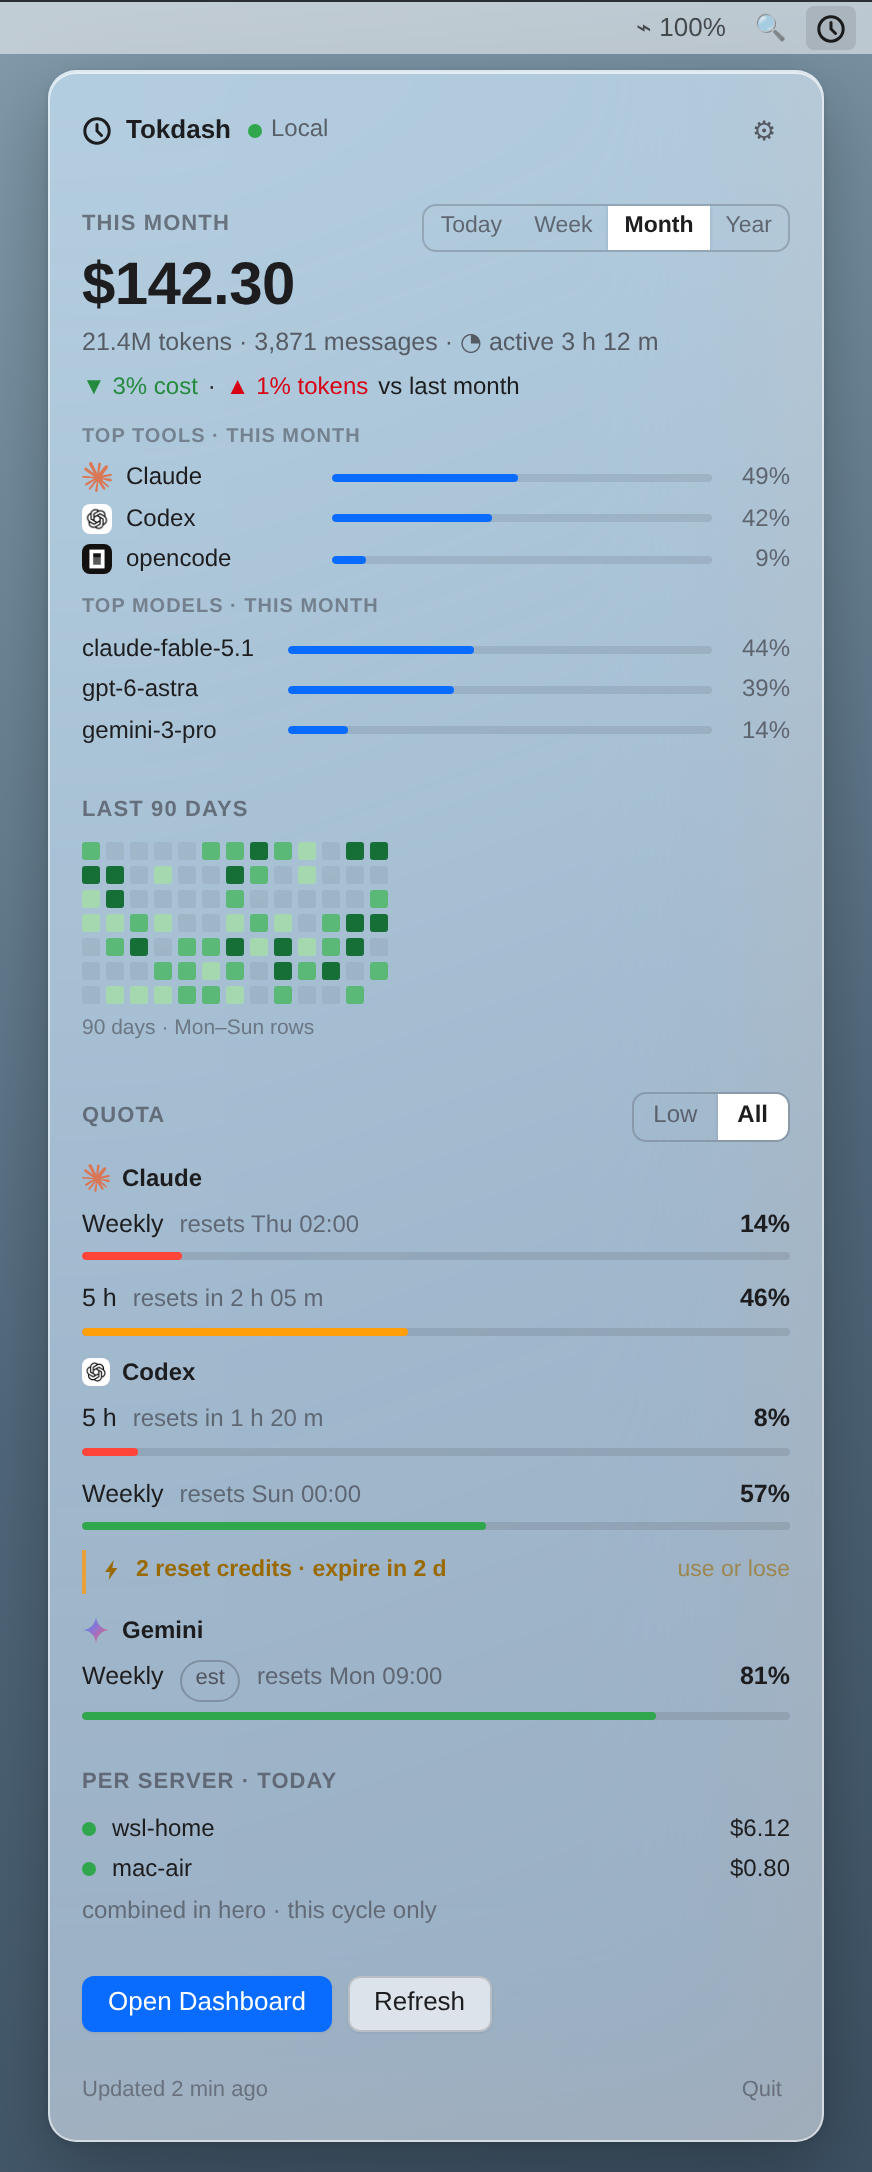
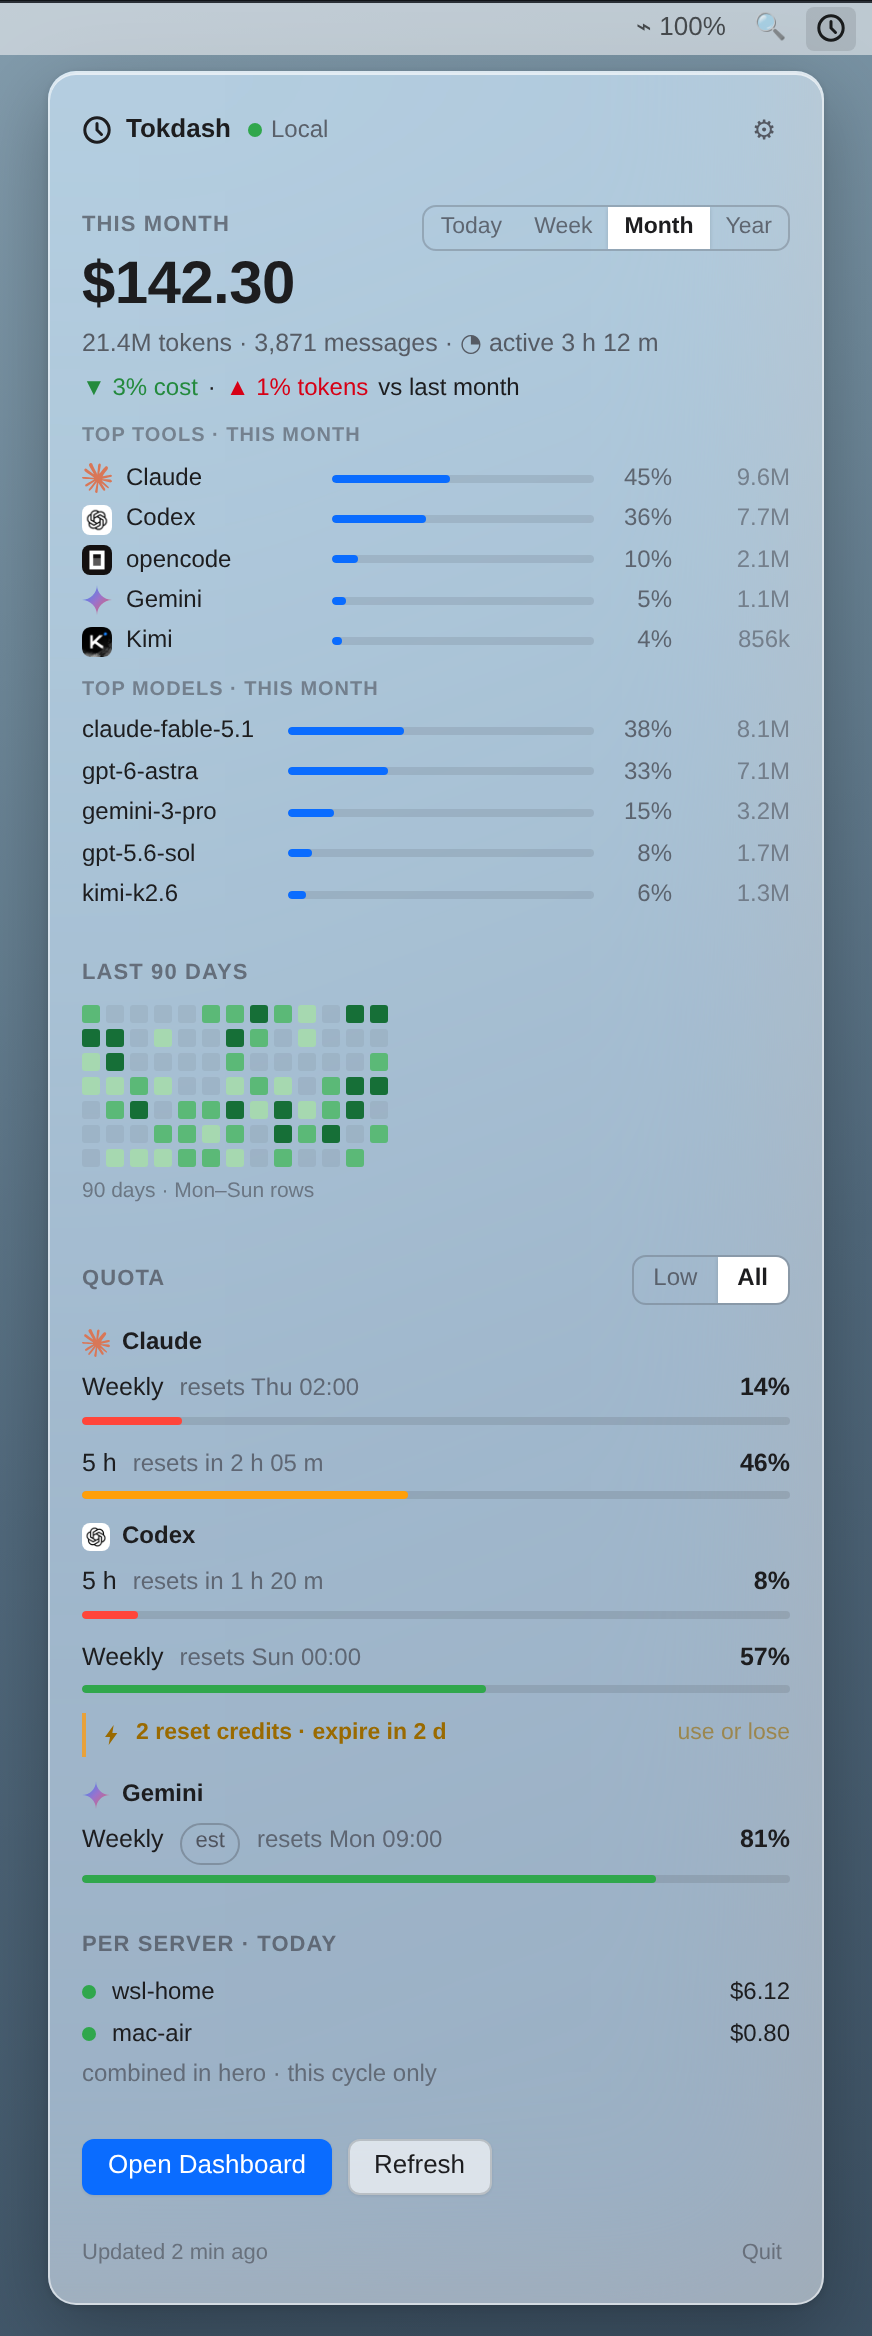
Two-command quick start, trimmed TOC, shipped-shape companion captures (#140)
* Give the companion captures the shipped top-rank lists

The v1.1 apps rank the top FIVE tools and models, and every row rides
the share bar with its percent and trails the compact token amount
(ContentView RankBlock, CompanionStore compactTokens). The demo mock
still drew the older top-3 name+bar+percent rows, so the marketing
shots undersold the panel; the mock now mirrors the contract and the
four mac/win light/dark shots were re-rendered from it.

* Open the README with a two-command quick start

The detailed setup guide opened under a heading that promised a quick
start and then delivered platform matrices and service managers. The
real quick start is two commands, so it now sits above the four-views
pitch for a reader who skim-pastes: pipx install, tokdash setup, done.
The detailed section stays in place renamed to Install & run. The
table of contents drops its four doc links - Supported clients,
Configuration, Privacy and the API reference moved to docs/ and never
came back to the README, so the TOC pointed at sections it no longer
holds - and lists Quick start first and Install & run where the old
entry stood, in all six languages.

diff --git a/README_JA.md b/README_JA.md
@@ -59,24 +59,30 @@
 
 ## 目次
 
+- [クイックスタート](#クイックスタート)
 - [パッケージひとつ、ビュー四つ](#パッケージひとつビュー四つ)
   - [WebUI](#webui)
   - [ターミナルダッシュボード（TUI）](#ターミナルダッシュボードtui)
   - [Companion ステータスバーアプリ](#companion-ステータスバーアプリ)
   - [ステータスライン](#ステータスライン)
-- [クイックスタート](#クイックスタート)
+- [インストールと実行](#インストールと実行)
 - [機能](#機能)
-- [対応クライアント](docs/reference/SUPPORTED_CLIENTS.md)
-- [設定](docs/reference/CONFIG.md)
-- [プライバシーとセキュリティ](docs/SECURITY.md)
 - [クォータ追跡（任意）](#クォータ追跡任意)
-- [API リファレンス](docs/reference/API.md)
 - [コスト精度について](#コスト精度について)
 - [履歴の保持](#履歴の保持)
 - [ロードマップ](#ロードマップ)
 - [コントリビューティング / セキュリティ](#コントリビューティング--セキュリティ)
 - [ドキュメント](#ドキュメント)
 - [ライセンス](#ライセンス)
+
+## クイックスタート
+
+```bash
+pipx install tokdash
+tokdash setup
+```
+
+これだけです。`tokdash setup` がランタイムを検出し、必要なら管理されたランタイムを導入し、ローカルサービスを登録して、ダッシュボードの URL —— `http://127.0.0.1:55423` —— を表示します。完全なオプション、初回実行メモ、更新方法は [インストールと実行](#インストールと実行) を参照。まずは見てみたいだけなら、[ライブデモ](https://tokdash.github.io/demo/) は実際の UI で動いています。
 
 ## パッケージひとつ、ビュー四つ
 
@@ -239,7 +245,7 @@ macOS のメニューバーアプリ、Windows の通知領域アプリとして
 - システム言語の自動検出、および English / 简体中文 / 日本語 / 한국어 / Español / Português
 - テレメトリなし、認証情報の探索なし、ポートスキャンなし、直接ログパースなし
 
-セットアップ: **Tokdash 1.5.2 以降**（[クイックスタート](#クイックスタート)）を起動し、Companion をインストールすると、デフォルトで `http://127.0.0.1:55423` に接続します — 設定で、プライベートな Tailscale Serve URL を含む明示的なエンドポイントの追加、テスト、名前付け、削除が行えます。Companion が通信するのは、あなたが設定したエンドポイントのみです。低クォータ通知とログイン時起動はどちらもオプトインです。
+セットアップ: **Tokdash 1.5.2 以降**（[インストールと実行](#インストールと実行)）を起動し、Companion をインストールすると、デフォルトで `http://127.0.0.1:55423` に接続します — 設定で、プライベートな Tailscale Serve URL を含む明示的なエンドポイントの追加、テスト、名前付け、削除が行えます。Companion が通信するのは、あなたが設定したエンドポイントのみです。低クォータ通知とログイン時起動はどちらもオプトインです。
 
 > [!WARNING]
 > GitHub Releases のバイナリは**未署名**です。macOS の Gatekeeper と Windows の SmartScreen が未知の発行元の警告を表示します。このリポジトリからのみダウンロードし、同梱の `SHA256SUMS` を検証して、リリースを信頼できる場合に限り続行してください。Microsoft Store ビルドは Microsoft による署名済みで影響を受けません。macOS の署名とノタリゼーションは今後のリリースで対応予定です。
@@ -258,7 +264,7 @@ macOS のメニューバーアプリ、Windows の通知領域アプリとして
 
 完成済みのテンプレート（bash と PowerShell）、インストール / 設定、エンドポイント参照は **[`docs/guides/statusline/`](docs/guides/statusline/)** にあります。
 
-## クイックスタート
+## インストールと実行
 
 ### プラットフォーム対応
 

diff --git a/README_ES.md b/README_ES.md
@@ -59,24 +59,35 @@
 
 ## Índice
 
+- [Inicio rápido](#inicio-rápido)
 - [Un paquete, cuatro vistas](#un-paquete-cuatro-vistas)
   - [WebUI](#webui)
   - [Panel de terminal (TUI)](#panel-de-terminal-tui)
   - [App de barra de estado Companion](#app-de-barra-de-estado-companion)
   - [Statusline](#statusline)
-- [Inicio rápido](#inicio-rápido)
+- [Instalación y ejecución](#instalación-y-ejecución)
 - [Funciones](#funciones)
-- [Clientes compatibles](docs/reference/SUPPORTED_CLIENTS.md)
-- [Configuración](docs/reference/CONFIG.md)
-- [Privacidad y seguridad](docs/SECURITY.md)
 - [Seguimiento de cuota (opcional)](#seguimiento-de-cuota-opcional)
-- [Referencia de API](docs/reference/API.md)
 - [Nota sobre la precisión del coste](#nota-sobre-la-precisión-del-coste)
 - [Retención del historial](#retención-del-historial)
 - [Hoja de ruta](#hoja-de-ruta)
 - [Contribución / seguridad](#contribución--seguridad)
 - [Documentación](#documentación)
 - [Licencia](#licencia)
+
+## Inicio rápido
+
+```bash
+pipx install tokdash
+tokdash setup
+```
+
+Eso es todo. `tokdash setup` detecta el runtime, instala uno gestionado si hace
+falta, registra un servicio local e imprime la URL del panel —
+`http://127.0.0.1:55423`. Las opciones completas, las notas de primera ejecución
+y las actualizaciones están en [Instalación y ejecución](#instalación-y-ejecución);
+¿prefieres mirar antes? La [demo en vivo](https://tokdash.github.io/demo/) corre
+sobre la interfaz real.
 
 ## Un paquete, cuatro vistas
 
@@ -259,7 +270,7 @@ autocontenido (`x64`, Windows 11; Windows on Arm mediante emulación x64).
 - Detección del idioma del sistema más English, chino simplificado, japonés, coreano, español y portugués
 - Sin telemetría, sin descubrimiento de credenciales, sin escaneo de puertos ni parsing directo de logs
 
-Configuración: ejecuta **Tokdash 1.5.2 o superior** ([Inicio rápido](#inicio-rápido)),
+Configuración: ejecuta **Tokdash 1.5.2 o superior** ([Instalación y ejecución](#instalación-y-ejecución)),
 instala el companion, y se conectará por defecto a `http://127.0.0.1:55423` — su
 configuración te permite añadir, probar, nombrar o quitar endpoints explícitos,
 incluidas URL privadas de Tailscale Serve. El companion solo contacta con los
@@ -290,7 +301,7 @@ codificación que muestre estadísticas de tokens/coste en vivo:
 Las plantillas listas para usar (bash y PowerShell), la instalación/configuración
 y la referencia de endpoints están en **[`docs/guides/statusline/`](docs/guides/statusline/)**.
 
-## Inicio rápido
+## Instalación y ejecución
 
 ### Soporte por plataforma
 

diff --git a/README_PT.md b/README_PT.md
@@ -59,24 +59,35 @@
 
 ## Sumário
 
+- [Início rápido](#início-rápido)
 - [Um pacote, quatro visões](#um-pacote-quatro-visões)
   - [WebUI](#webui)
   - [Painel no terminal (TUI)](#painel-no-terminal-tui)
   - [App de barra de status Companion](#app-de-barra-de-status-companion)
   - [Statusline](#statusline)
-- [Início rápido](#início-rápido)
+- [Instalação e execução](#instalação-e-execução)
 - [Funcionalidades](#funcionalidades)
-- [Clientes suportados](docs/reference/SUPPORTED_CLIENTS.md)
-- [Configuração](docs/reference/CONFIG.md)
-- [Privacidade \& segurança](docs/SECURITY.md)
 - [Acompanhamento de cota (opcional)](#acompanhamento-de-cota-opcional)
-- [Referência da API](docs/reference/API.md)
 - [Nota sobre a precisão do custo](#nota-sobre-a-precisão-do-custo)
 - [Retenção do histórico](#retenção-do-histórico)
 - [Roadmap](#roadmap)
 - [Contribuição / segurança](#contribuição--segurança)
 - [Documentação](#documentação)
 - [Licença](#licença)
+
+## Início rápido
+
+```bash
+pipx install tokdash
+tokdash setup
+```
+
+Isso é tudo. O `tokdash setup` detecta o runtime, instala um gerenciado se
+necessário, registra um serviço local e imprime a URL do painel —
+`http://127.0.0.1:55423`. As opções completas, as notas da primeira execução e
+as atualizações estão em [Instalação e execução](#instalação-e-execução);
+prefere dar uma olhada antes? A [demo ao vivo](https://tokdash.github.io/demo/)
+roda na interface real.
 
 ## Um pacote, quatro visões
 
@@ -259,7 +270,7 @@ autocontido (`x64`, Windows 11; Windows on Arm via emulação x64).
 - Detecção do idioma do sistema mais English, chinês simplificado, japonês, coreano, espanhol e português
 - Sem telemetria, sem descoberta de credenciais, sem varredura de portas nem parsing direto de logs
 
-Configuração: execute o **Tokdash 1.5.2 ou mais novo** ([Início rápido](#início-rápido)),
+Configuração: execute o **Tokdash 1.5.2 ou mais novo** ([Instalação e execução](#instalação-e-execução)),
 instale o companion, e ele se conecta a `http://127.0.0.1:55423` por padrão — as
 configurações dele permitem adicionar, testar, nomear ou remover endpoints
 explícitos, incluindo URLs privadas do Tailscale Serve. O companion só contata os
@@ -291,7 +302,7 @@ mostrando estatísticas de tokens/custo ao vivo:
 Os modelos prontos (bash e PowerShell), a instalação/configuração e a referência
 de endpoints estão em **[`docs/guides/statusline/`](docs/guides/statusline/)**.
 
-## Início rápido
+## Instalação e execução
 
 ### Suporte por plataforma
 

diff --git a/README_KO.md b/README_KO.md
@@ -59,24 +59,34 @@
 
 ## 목차
 
+- [빠른 시작](#빠른-시작)
 - [하나의 패키지, 네 가지 뷰](#하나의-패키지-네-가지-뷰)
   - [WebUI](#webui)
   - [터미널 대시보드 (TUI)](#터미널-대시보드-tui)
   - [Companion 상태표 앱](#companion-상태표-앱)
   - [상태줄](#상태줄)
-- [빠른 시작](#빠른-시작)
+- [설치 및 실행](#설치-및-실행)
 - [기능](#기능)
-- [지원 클라이언트](docs/reference/SUPPORTED_CLIENTS.md)
-- [구성](docs/reference/CONFIG.md)
-- [프라이버시 & 보안](docs/SECURITY.md)
 - [쿼터 추적 (선택사항)](#쿼터-추적-선택사항)
-- [API 참조](docs/reference/API.md)
 - [비용 정확도 안내](#비용-정확도-안내)
 - [히스토리 보존](#히스토리-보존)
 - [로드맵](#로드맵)
 - [기여 / 보안](#기여--보안)
 - [문서](#문서)
 - [라이선스](#라이선스)
+
+## 빠른 시작
+
+```bash
+pipx install tokdash
+tokdash setup
+```
+
+끝입니다. `tokdash setup`이 런타임을 감지하고, 필요하면 관리형 런타임을 설치한 뒤
+로컬 서비스를 등록하고 대시보드 주소 —— `http://127.0.0.1:55423` —— 를
+출력합니다. 전체 옵션, 첫 실행 안내, 업데이트 방법은
+[설치 및 실행](#설치-및-실행)에 있습니다. 먼저 둘러보고 싶다면
+[라이브 데모](https://tokdash.github.io/demo/)가 실제 UI로 동작합니다.
 
 ## 하나의 패키지, 네 가지 뷰
 
@@ -254,7 +264,7 @@ macOS용 네이티브 메뉴 막대 앱이자 Windows용 알림 영역 앱으로
 - 시스템 언어 감지 및 English, 简体中文, 日本語, 한국어, Español, Português
 - 텔레메트리, 자격 증명 탐색, 포트 스캔, 직접 로그 파싱 없음
 
-설정: **Tokdash 1.5.2 이상**([빠른 시작](#빠른-시작))을 실행하고 Companion을
+설정: **Tokdash 1.5.2 이상**([설치 및 실행](#설치-및-실행))을 실행하고 Companion을
 설치하면 기본적으로 `http://127.0.0.1:55423`에 연결됩니다 — 설정에서 프라이빗
 Tailscale Serve URL을 포함해 명시적 엔드포인트를 추가, 테스트, 이름 붙이기,
 제거할 수 있습니다. Companion은 사용자가 구성한 엔드포인트에만 접촉하며, 저쿼터
@@ -284,7 +294,7 @@ Tailscale Serve URL을 포함해 명시적 엔드포인트를 추가, 테스트,
 완성된 템플릿(bash 및 PowerShell), 설치/구성, 엔드포인트 참조는
 **[`docs/guides/statusline/`](docs/guides/statusline/)**에 있습니다.
 
-## 빠른 시작
+## 설치 및 실행
 
 ### 플랫폼 지원
 

diff --git a/README.md b/README.md
@@ -59,24 +59,34 @@
 
 ## Table of Contents
 
+- [Quick start](#quick-start)
 - [One package, four views](#one-package-four-views)
   - [WebUI](#webui)
   - [Terminal dashboard (TUI)](#terminal-dashboard-tui)
   - [Companion status bar app](#companion-status-bar-app)
   - [Statusline](#statusline)
-- [Quick start](#quick-start)
+- [Install & run](#install--run)
 - [Features](#features)
-- [Supported clients](docs/reference/SUPPORTED_CLIENTS.md)
-- [Configuration](docs/reference/CONFIG.md)
-- [Privacy \& security](docs/SECURITY.md)
 - [Quota tracking (optional)](#quota-tracking-optional)
-- [API reference](docs/reference/API.md)
 - [Cost accuracy note](#cost-accuracy-note)
 - [History retention](#history-retention)
 - [Roadmap](#roadmap)
 - [Contributing / security](#contributing--security)
 - [Documentation](#documentation)
 - [License](#license)
+
+## Quick start
+
+```bash
+pipx install tokdash
+tokdash setup
+```
+
+That's it. `tokdash setup` detects the runtime, installs a managed one if
+needed, registers a local service, and prints the dashboard URL —
+`http://127.0.0.1:55423`. Full options, first-run notes, and updates live in
+[Install & run](#install--run); prefer to look around first? The
+[live demo](https://tokdash.github.io/demo/) runs on the real UI.
 
 ## One package, four views
 
@@ -254,7 +264,7 @@ a universal DMG (`arm64` + `x86_64`, macOS 14+) and a self-contained portable ZI
 - System language detection plus English, Simplified Chinese, Japanese, Korean, Spanish, and Portuguese
 - No telemetry, credential discovery, port scanning, or direct log parsing
 
-Setup: run **Tokdash 1.5.2 or newer** ([Quick start](#quick-start)), install the
+Setup: run **Tokdash 1.5.2 or newer** ([Install & run](#install--run)), install the
 companion, and it connects to `http://127.0.0.1:55423` by default — its settings
 let you add, test, name, or remove explicit endpoints, including private Tailscale
 Serve URLs. The companion only contacts the endpoints you configure; low-quota
@@ -284,7 +294,7 @@ token/cost stats:
 Ready-made templates (bash and PowerShell), install/config, and the endpoint
 reference live in **[`docs/guides/statusline/`](docs/guides/statusline/)**.
 
-## Quick start
+## Install & run
 
 ### Platform support
 

diff --git a/README_CN.md b/README_CN.md
@@ -59,24 +59,33 @@
 
 ## 目录
 
+- [快速开始](#快速开始)
 - [一个包，四种视图](#一个包四种视图)
   - [WebUI](#webui)
   - [终端仪表盘（TUI）](#终端仪表盘tui)
   - [Companion 状态栏应用](#companion-状态栏应用)
   - [状态栏（Statusline）](#状态栏statusline)
-- [快速开始](#快速开始)
+- [安装与运行](#安装与运行)
 - [功能特性](#功能特性)
-- [已支持客户端](docs/reference/SUPPORTED_CLIENTS.md)
-- [配置](docs/reference/CONFIG.md)
-- [隐私与安全](docs/SECURITY.md)
 - [额度跟踪（可选）](#额度跟踪可选)
-- [API 参考](docs/reference/API.md)
 - [费用精度说明](#费用精度说明)
 - [历史数据保留](#历史数据保留)
 - [路线图](#路线图)
 - [贡献 / 安全](#贡献--安全)
 - [文档](#文档)
 - [License](#license)
+
+## 快速开始
+
+```bash
+pipx install tokdash
+tokdash setup
+```
+
+就这两条命令。`tokdash setup` 会检测运行时、在需要时安装托管运行时、注册本地
+服务，并打印仪表盘地址 —— `http://127.0.0.1:55423`。完整安装选项、首次运行
+说明与更新方式见 [安装与运行](#安装与运行)；想先逛逛？[在线演示](https://tokdash.github.io/demo/)
+运行在真实界面上。
 
 ## 一个包，四种视图
 
@@ -240,7 +249,7 @@ tokdash report --period week
 - 跟随系统语言，并支持 English、简体中文、日语、韩语、西班牙语与葡萄牙语
 - 无遥测、凭据发现、端口扫描或直接日志解析
 
-设置：运行 **Tokdash 1.5.2 或更高版本**（[快速开始](#快速开始)），安装 Companion，
+设置：运行 **Tokdash 1.5.2 或更高版本**（[安装与运行](#安装与运行)），安装 Companion，
 它默认连接 `http://127.0.0.1:55423` —— 其设置允许你添加、测试、命名或移除明确
 指定的端点，包括私有 Tailscale Serve 地址。Companion 只会访问你配置的端点；
 低额度通知与登录时启动均为可选功能。
@@ -268,7 +277,7 @@ tokdash report --period week
 现成模板（bash 与 PowerShell）、安装 / 配置与端点参考见
 **[`docs/guides/statusline/`](docs/guides/statusline/)**。
 
-## 快速开始
+## 安装与运行
 
 ### 平台支持
 
